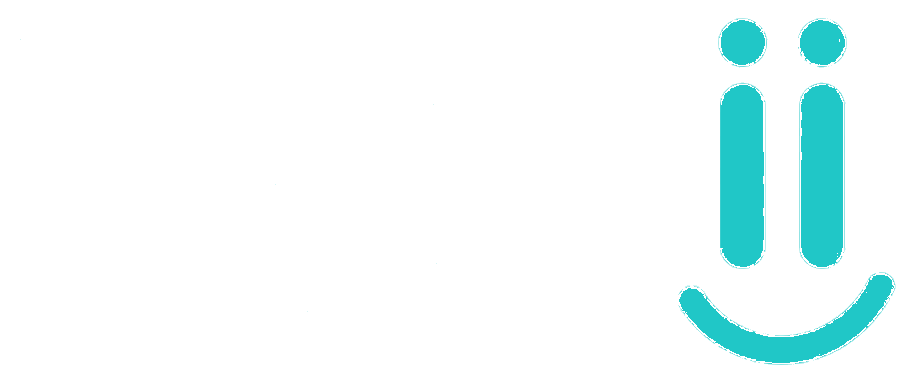
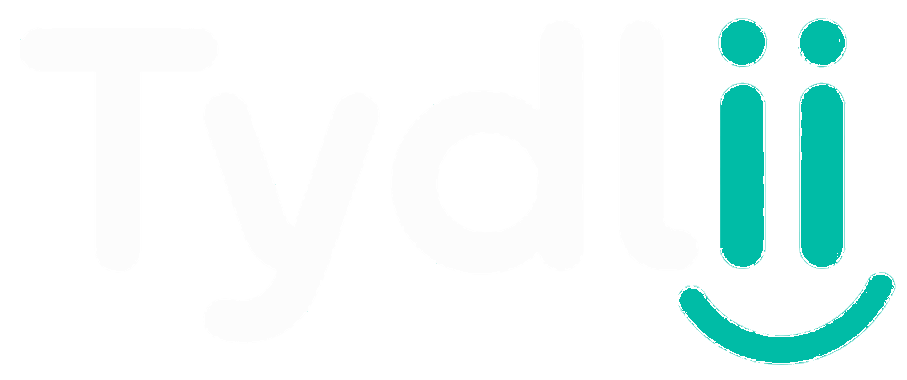
Match landing colours to the Grok theme lane.
Ink, teal, and blue follow the Option A canvas useGrokTheme tokens (#070707, #00BCA6, #1084FE). The page, cards, and smile wordmark use the same light-theme ink and teal.

Changed region(s): [[0.7718, 0.2026, 0.957, 0.7237], [0.7409, 0.7237, 0.9879, 0.9553], [0.7718, 0.0579, 0.957, 0.1737]]

diff --git a/app/globals.css b/app/globals.css
@@ -1,13 +1,25 @@
 :root {
-  --navy: #0b2f6b;
-  --teal: #20c7c7;
-  --blue: #3c8dff;
-  --white: #ffffff;
-  --paper: #f4f7fb;
-  --muted: #4d5e78;
-  --line: rgba(11, 47, 107, 0.14);
-  --danger: #9b1c1c;
-  --shadow: 0 30px 80px -30px rgba(11, 47, 107, 0.35), 0 8px 24px -12px rgba(11, 47, 107, 0.16);
+  /* Grok light theme tokens from useGrokTheme (Option A + smile). */
+  --ink: #070707;
+  --ink-hover: #2f2f2f;
+  --on-ink: #fcfcfc;
+  --teal: #00bca6;
+  --blue: #1084fe;
+  --bg: #fcfcfc;
+  --subtle: #f7f7f7;
+  --elevated: #fcfcfc;
+  --text: #141414;
+  --muted: #14141499;
+  --faint: #14141466;
+  --line: #1414140d;
+  --line-weak: #1414141a;
+  --line-strong: #1414144d;
+  --danger: #c21d2e;
+  --navy: var(--ink);
+  --white: var(--on-ink);
+  --paper: var(--subtle);
+  --shadow: 0 30px 80px -30px color-mix(in srgb, var(--text) 45%, transparent),
+    0 8px 24px -12px color-mix(in srgb, var(--text) 20%, transparent);
   --font: var(--font-outfit), "Avenir Next", "Segoe UI", sans-serif;
   color-scheme: light;
 }
@@ -24,8 +36,8 @@ html {
 
 body {
   margin: 0;
-  background: var(--white);
-  color: var(--navy);
+  background: var(--bg);
+  color: var(--text);
   font-family: var(--font);
   font-size: 17px;
   line-height: 1.55;
@@ -132,11 +144,11 @@ main.shell {
   letter-spacing: 0.14em;
   text-transform: uppercase;
   font-weight: 600;
-  color: #5c6d86;
+  color: var(--faint);
 }
 
 .eyebrow.on-dark {
-  color: rgba(255, 255, 255, 0.72);
+  color: color-mix(in srgb, var(--on-ink) 72%, transparent);
 }
 
 .section-intro {
@@ -234,21 +246,21 @@ main.shell {
 }
 
 .btn-navy:hover {
-  background: #0e3b84;
+  background: var(--ink-hover);
 }
 
 .btn-ghost {
   color: var(--white);
-  border-color: rgba(255, 255, 255, 0.45);
+  border-color: color-mix(in srgb, var(--on-ink) 45%, transparent);
 }
 
 .btn-ghost:hover {
-  background: rgba(255, 255, 255, 0.08);
+  background: color-mix(in srgb, var(--on-ink) 8%, transparent);
 }
 
 .btn-line {
-  color: var(--navy);
-  border-color: rgba(11, 47, 107, 0.28);
+  color: var(--text);
+  border-color: var(--line-strong);
   background: transparent;
 }
 
@@ -315,7 +327,7 @@ main.shell {
   font-weight: 500;
   padding: 6px 12px;
   border-radius: 999px;
-  background: rgba(255, 255, 255, 0.12);
+  background: color-mix(in srgb, var(--on-ink) 12%, transparent);
 }
 
 .hero h1 {
@@ -329,7 +341,7 @@ main.shell {
   font-size: clamp(20px, 2.4vw, 26px);
   font-weight: 500;
   letter-spacing: -0.015em;
-  color: rgba(255, 255, 255, 0.78);
+  color: color-mix(in srgb, var(--on-ink) 78%, transparent);
   opacity: 1;
   transform: translateY(0);
   transition: opacity 360ms ease, transform 360ms ease;
@@ -342,7 +354,7 @@ main.shell {
 
 .lede {
   max-width: 480px;
-  color: rgba(255, 255, 255, 0.72);
+  color: color-mix(in srgb, var(--on-ink) 72%, transparent);
   font-size: 18px;
 }
 
@@ -366,7 +378,7 @@ main.shell {
   padding: 0;
   border: 0;
   border-radius: 999px;
-  background: rgba(255, 255, 255, 0.3);
+  background: color-mix(in srgb, var(--on-ink) 30%, transparent);
   transition: width 300ms ease, background 300ms ease;
 }
 
@@ -383,11 +395,11 @@ main.shell {
 .phone {
   width: 100%;
   max-width: 360px;
-  background: var(--white);
-  color: var(--navy);
+  background: var(--elevated);
+  color: var(--text);
   border-radius: 32px;
   padding: 18px;
-  box-shadow: 0 40px 90px -30px rgba(7, 30, 70, 0.55);
+  box-shadow: 0 40px 90px -30px color-mix(in srgb, var(--ink) 55%, transparent);
 }
 
 .map {
@@ -454,19 +466,19 @@ main.shell {
   font-weight: 600;
   padding: 5px 10px;
   border-radius: 999px;
-  background: color-mix(in srgb, var(--teal) 18%, white);
-  color: var(--navy);
+  background: color-mix(in srgb, var(--teal) 18%, var(--elevated));
+  color: var(--text);
 }
 
 .hairline,
 .rule {
   height: 1px;
   border: 0;
-  background: rgba(11, 47, 107, 0.1);
+  background: var(--line-weak);
 }
 
 .rule {
-  background: rgba(255, 255, 255, 0.18);
+  background: color-mix(in srgb, var(--on-ink) 18%, transparent);
 }
 
 .avatar {
@@ -550,7 +562,7 @@ main.shell {
   font-size: 14px;
   font-weight: 600;
   letter-spacing: 0.04em;
-  color: #5c6d86;
+  color: var(--faint);
 }
 
 .accent-bar {
@@ -688,7 +700,7 @@ main.shell {
 .panel-copy > p,
 .earn-copy > p,
 .earn-figure p {
-  color: rgba(255, 255, 255, 0.75);
+  color: color-mix(in srgb, var(--on-ink) 75%, transparent);
   font-size: 15px;
 }
 
@@ -715,11 +727,11 @@ main.shell {
 
 .price-tax {
   font-size: 18px;
-  color: rgba(255, 255, 255, 0.75);
+  color: color-mix(in srgb, var(--on-ink) 75%, transparent);
 }
 
 .price-incl {
-  color: rgba(255, 255, 255, 0.7);
+  color: color-mix(in srgb, var(--on-ink) 70%, transparent);
   font-size: 15px;
 }
 
@@ -761,7 +773,7 @@ main.shell {
   gap: 8px;
   font-size: 14px;
   font-weight: 600;
-  color: var(--navy);
+  color: var(--text);
 }
 
 .field input,
@@ -771,9 +783,9 @@ main.shell {
   min-height: 52px;
   padding: 0.75rem 0.95rem;
   border-radius: 14px;
-  border: 1px solid var(--line);
-  background: var(--white);
-  color: var(--navy);
+  border: 1px solid var(--line-weak);
+  background: var(--elevated);
+  color: var(--text);
   font-weight: 500;
 }
 
@@ -915,7 +927,7 @@ main.shell {
 
 .earn-figure p:first-child,
 .earn-figure p:last-child {
-  color: rgba(255, 255, 255, 0.86);
+  color: color-mix(in srgb, var(--on-ink) 86%, transparent);
 }
 
 .earn-amount {
@@ -943,7 +955,7 @@ main.shell {
   height: 12px;
   border-radius: 999px;
   overflow: hidden;
-  background: rgba(255, 255, 255, 0.15);
+  background: color-mix(in srgb, var(--on-ink) 15%, transparent);
 }
 
 .share-you {
@@ -957,7 +969,7 @@ main.shell {
 }
 
 .share-labels {
-  color: rgba(255, 255, 255, 0.75);
+  color: color-mix(in srgb, var(--on-ink) 75%, transparent);
   font-size: 13px;
 }
 
@@ -974,8 +986,8 @@ main.shell {
   gap: 16px;
   padding: clamp(40px, 6vw, 72px) 24px;
   border-radius: 32px;
-  background: color-mix(in srgb, var(--teal) 14%, white);
-  border: 1px solid color-mix(in srgb, var(--teal) 30%, white);
+  background: color-mix(in srgb, var(--teal) 14%, var(--bg));
+  border: 1px solid color-mix(in srgb, var(--teal) 30%, var(--bg));
 }
 
 .close-band h2 {
@@ -993,7 +1005,7 @@ main.shell {
 }
 
 .footer-row p {
-  color: #5c6d86;
+  color: var(--faint);
   font-size: 14px;
 }
 

diff --git a/components/Hero.tsx b/components/Hero.tsx
@@ -38,9 +38,9 @@ export function Hero({ onPrice, onClean }: HeroProps) {
   return (
     <section className="hero" id="top" aria-labelledby="hero-title">
       <svg className="hero-art" viewBox="0 0 1000 600" preserveAspectRatio="none" aria-hidden="true">
-        <polygon points="640,0 1000,0 1000,600 470,600" fill="#20c7c7" opacity="0.92" />
-        <polygon points="760,0 1000,0 1000,600 640,600" fill="#3c8dff" opacity="0.28" />
-        <circle cx="120" cy="560" r="220" fill="rgba(255,255,255,0.04)" />
+        <polygon points="640,0 1000,0 1000,600 470,600" fill="var(--teal)" opacity="0.92" />
+        <polygon points="760,0 1000,0 1000,600 640,600" fill="var(--blue)" opacity="0.28" />
+        <circle cx="120" cy="560" r="220" fill="color-mix(in srgb, var(--on-ink) 4%, transparent)" />
       </svg>
       <div className="hero-grid">
         <div className="hero-copy">
@@ -98,26 +98,26 @@ export function Hero({ onPrice, onClean }: HeroProps) {
           <article className="phone" aria-label="App preview">
             <div className="map">
               <svg viewBox="0 0 320 180" role="img" aria-label="Live map showing your cleaner on the way">
-                <rect width="320" height="180" fill="#f4f7fb" />
+                <rect width="320" height="180" fill="var(--subtle)" />
                 {[30, 75, 120, 165].map((y) => (
-                  <line key={`h${y}`} x1="0" y1={y} x2="320" y2={y} stroke="rgba(11,47,107,0.08)" strokeWidth="7" />
+                  <line key={`h${y}`} x1="0" y1={y} x2="320" y2={y} stroke="var(--line-weak)" strokeWidth="7" />
                 ))}
                 {[40, 110, 190, 260].map((x) => (
-                  <line key={`v${x}`} x1={x} y1="0" x2={x} y2="180" stroke="rgba(11,47,107,0.08)" strokeWidth="7" />
+                  <line key={`v${x}`} x1={x} y1="0" x2={x} y2="180" stroke="var(--line-weak)" strokeWidth="7" />
                 ))}
-                <rect x="200" y="85" width="50" height="28" rx="4" fill="rgba(32,199,199,0.25)" />
+                <rect x="200" y="85" width="50" height="28" rx="4" fill="color-mix(in srgb, var(--teal) 25%, transparent)" />
                 <path
                   d="M40 165 L40 120 L110 120 L110 75 L190 75 L225 75 L225 99"
                   fill="none"
-                  stroke="#3c8dff"
+                  stroke="var(--blue)"
                   strokeWidth="4"
                   strokeLinecap="round"
                   strokeLinejoin="round"
                   strokeDasharray="2 8"
                 />
-                <circle cx="110" cy="96" r="13" fill="rgba(60,141,255,0.25)" />
-                <circle cx="110" cy="96" r="7" fill="#3c8dff" stroke="#ffffff" strokeWidth="2.5" />
-                <circle cx="225" cy="99" r="9" fill="#0b2f6b" stroke="#ffffff" strokeWidth="3" />
+                <circle cx="110" cy="96" r="13" fill="color-mix(in srgb, var(--blue) 25%, transparent)" />
+                <circle cx="110" cy="96" r="7" fill="var(--blue)" stroke="var(--on-ink)" strokeWidth="2.5" />
+                <circle cx="225" cy="99" r="9" fill="var(--ink)" stroke="var(--on-ink)" strokeWidth="3" />
               </svg>
             </div>
             <div className="phone-body">

diff --git a/components/CleanerPitch.tsx b/components/CleanerPitch.tsx
@@ -25,8 +25,8 @@ export function CleanerPitch() {
       <section className="block tight" aria-label="Cleaner earnings">
         <div className="earn">
           <svg className="earn-art" viewBox="0 0 1000 500" preserveAspectRatio="none" aria-hidden="true">
-            <polygon points="0,0 380,0 260,500 0,500" fill="#20c7c7" opacity="0.9" />
-            <polygon points="0,0 250,0 150,500 0,500" fill="#3c8dff" opacity="0.25" />
+            <polygon points="0,0 380,0 260,500 0,500" fill="var(--teal)" opacity="0.9" />
+            <polygon points="0,0 250,0 150,500 0,500" fill="var(--blue)" opacity="0.25" />
           </svg>
           <div className="earn-grid">
             <div className="earn-figure">

diff --git a/components/ui.tsx b/components/ui.tsx
@@ -26,11 +26,11 @@ export function Check({ children, onDark = false }: { children: ReactNode; onDar
   return (
     <div className={onDark ? "tick on-dark" : "tick"}>
       <svg width="22" height="22" viewBox="0 0 22 22" aria-hidden="true">
-        <circle cx="11" cy="11" r="11" fill="#20c7c7" />
+        <circle cx="11" cy="11" r="11" fill="var(--teal)" />
         <path
           d="M6.5 11.3l3 3 6-6.3"
           fill="none"
-          stroke={onDark ? "#0b2f6b" : "#ffffff"}
+          stroke={onDark ? "var(--ink)" : "var(--on-ink)"}
           strokeWidth="2"
           strokeLinecap="round"
           strokeLinejoin="round"

diff --git a/components/QuoteCalculator.tsx b/components/QuoteCalculator.tsx
@@ -153,7 +153,7 @@ export function QuoteCalculator({ onChange }: { onChange: (snapshot: QuoteSnapsh
 
         <aside className="quote-panel">
           <svg className="panel-art" viewBox="0 0 400 400" preserveAspectRatio="none" aria-hidden="true">
-            <polygon points="300,0 400,0 400,400 200,400" fill="#20c7c7" opacity="0.22" />
+            <polygon points="300,0 400,0 400,400 200,400" fill="var(--teal)" opacity="0.22" />
           </svg>
           <div className="panel-copy">
             {quote.custom || !headline ? (

diff --git a/app/layout.tsx b/app/layout.tsx
@@ -51,7 +51,7 @@ export const metadata: Metadata = {
 };
 
 export const viewport: Viewport = {
-  themeColor: "#0b2f6b",
+  themeColor: "#070707",
   width: "device-width",
   initialScale: 1,
 };
